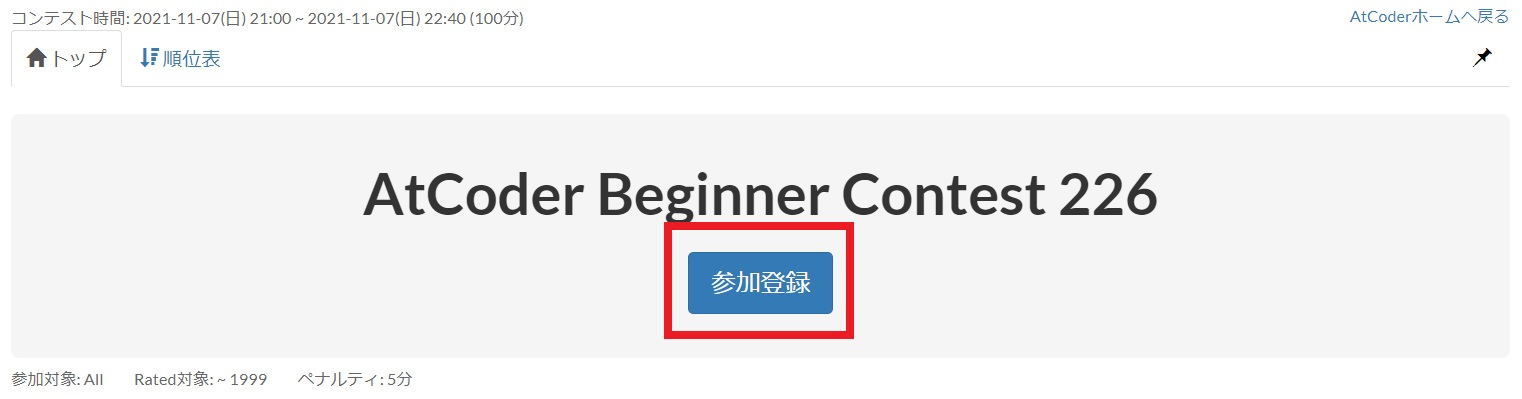
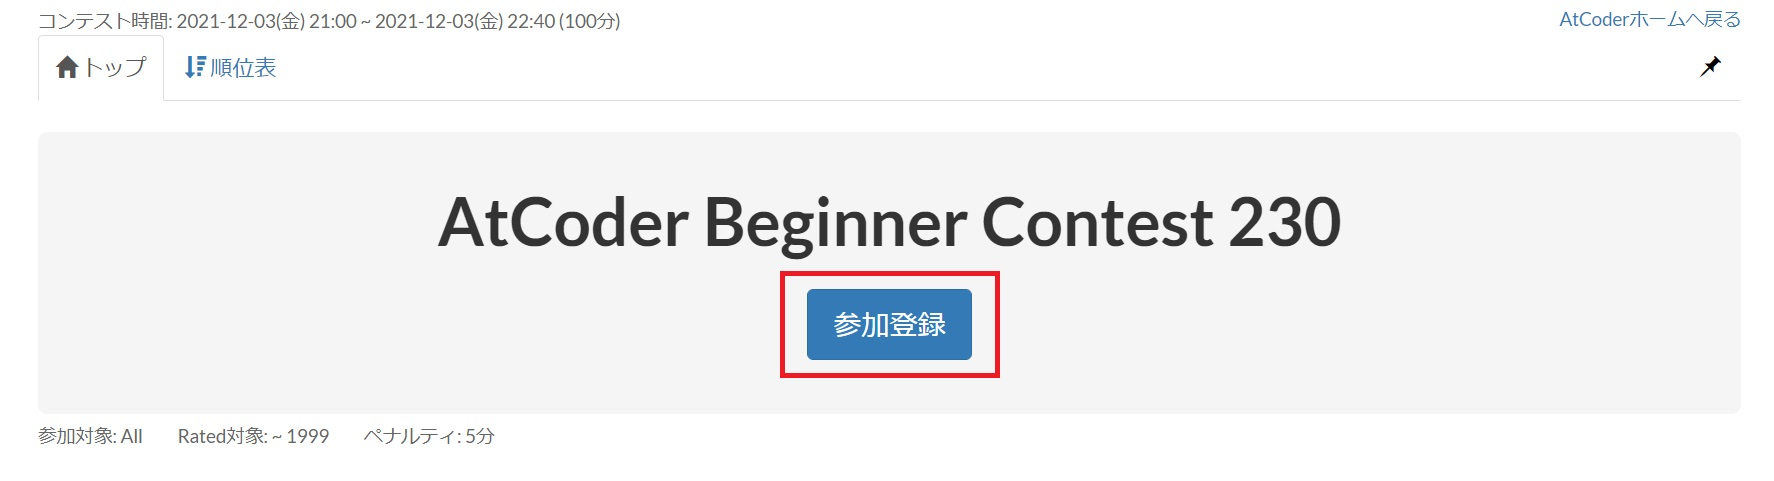
Rated/Unrated登録機能について 追加

diff --git a/le/k_c_pej_p_gm/about/about.html b/le/k_c_pej_p_gm/about/about.html
@@ -142,9 +142,9 @@
             <span class="cb41">
               <a class="cb42" href="https://atcoder.jp/home">AtCoder</a>の左側に、「予定されたコンテスト」というところがあります。<br>
               ここに近々開催されるコンテストの日時と名称が記載されています。<br>
-              画像の例だと、ABC226が11/7(日)の21:00から開催される予定です。<br>
+              画像の例だと、ABC230が12/3(金)の21:00から開催される予定です。この回は変則的に金曜日にコンテストがありますが、基本的には土曜日か日曜日のどちらかにあることが多いです。<br>
               コンテストの詳細はコンテスト名をクリックするとコンテストページに飛ぶのでそこを見るとわかります。<br>
-              ABC226はコンテスト時間100分、問題がA~Hの8問あって、配点は100-200-300-400-500-500-600-600だとわかります。<br>
+              ABC230はコンテスト時間100分、問題がA~Hの8問あって、配点は100-200-300-400-500-500-600-600だとわかります。<br>
               最近のABCはいつもこのような構成です。
             </span>
           </div>
@@ -156,11 +156,25 @@
             <span class="cb41">
               では、詳細が確認できたところで、参加登録をしていきます。<br>
               コンテストページ中央に「参加登録」という青いボタンがあるので、そこをクリックしてください。<br>
-              クリックすると画面上部に「参加登録しました。」と出るので、これで参加登録は完了です。<br>
-              企業コンテストなどの一部コンテストでは、参加登録の際にアンケートがある場合もあります。
+              クリックすると画面上部に「参加登録しました。」と出ますが、まだ参加登録は完全に完了していません。このあとの操作をもって、参加登録が完全に完了します。<br>
+              また、このとき企業コンテストなどの一部コンテストでは、アンケートがある場合もあります。<br>
             </span>
           </div>
           <img class="cb30" src="contestRegister.jpg">
+        </article>
+        <article class="cb21 fxrl">
+          <div class="cb31">
+            <h3 class="cb40">コンテスト開始直前</h3>
+            <span class="cb41">
+              参加登録が一時的に完了すると、画像のように「Rated参加登録」と「Unrated参加登録」の2つの青いボタンが表示されます。<br>
+              「Rated参加登録」を押すと、このコンテストの結果がレートに反映されます。「Unrated参加登録」を押すと、このコンテストの結果がレートに反映されません。<br>
+              どちらかのボタンを押すと、「現在～で参加登録しています」と表示されます。<br>
+              また、コンテスト開始5分以内にこの選択をしないと、Unratedとなるので注意してください。
+              この選択はコンテスト直前でなくても行うことはできますが、Ratedを選択したにもかかわらず寝坊などの何らか理由で参加できなくなった場合に、「参加したが1問も解けなかった」という扱いになってしまいレートが大幅に減少する可能性があるため、コンテスト直前の選択をお勧めします。<br>
+              このRated/Unrated登録機能についての詳細は、<a class="cb42" href="https://atcoder.jp/posts/744">Rated/Unrated登録機能追加のお知らせ</a>を見てください。
+            </span>
+          </div>
+          <img class="cb30" src="contestRegisterR.jpg">
         </article>
         <article class="cb21 fxtb">
           <h2 class="cb33">コンテスト本番</h2>
